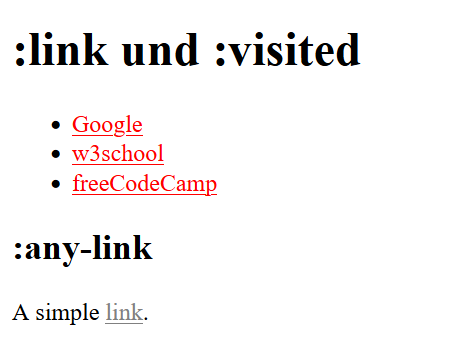
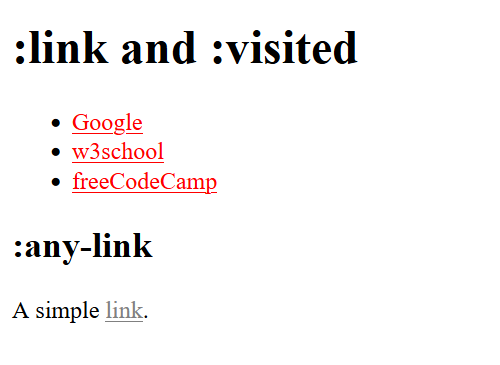
UD 2.1.

diff --git a/2_CSS_Selectors/Part_11/index.html b/2_CSS_Selectors/Part_11/index.html
@@ -1,0 +1,39 @@
+<!DOCTYPE html>
+<html>
+
+<head>
+    <title>Pseudo-classes</title>
+    <meta charset="UTF-8" />
+    <link rel="stylesheet" href="styles/style.css" />
+</head>
+
+<body>
+    <h1>:first-child in body</h1>
+    <p>
+        Lorem ipsum dolor sit amet, consectetuer adipiscing elit. Aenean commodo ligula eget dolor.
+    </p>
+    <h2>:first-child and :last-child on table</h2>
+    <table>
+        <tbody>
+            <tr>
+                <td>:first-child in tr</td>
+                <td>Text only</td>
+                <td>:last-child in tr</td>
+            </tr>
+            <tr>
+                <td>:first-child in tr</td>
+                <td>Text only</td>
+                <td>:last-child in tr</td>
+            </tr>
+        </tbody>
+    </table>
+    <ul>
+        <li>This is selected by :first-child in ul.</li>
+        <li>This is not selected.</li>
+        <li>This is not selected.</li>
+        <li>This is selected by :last-child in ul.</li>
+    </ul>
+    <p>This one is selected by :last-child of body.</p>
+</body>
+
+</html>

diff --git a/2_CSS_Selectors/Part_10/index.html b/2_CSS_Selectors/Part_10/index.html
@@ -1,0 +1,35 @@
+<!DOCTYPE html>
+<html>
+
+<head>
+    <title>Pseudo-classes</title>
+    <meta charset="UTF-8" />
+    <link rel="stylesheet" href="styles/style.css" />
+</head>
+
+<body>
+    <h1>:root and :empty</h1>
+    <p>
+        Lorem ipsum dolor sit amet, consectetuer adipiscing elit. Aenean commodo ligula eget dolor.
+    </p>
+    <p></p>
+    <h2>:empty on table</h2>
+    <table>
+        <tbody>
+            <tr>
+                <td>Value</td>
+                <td></td>
+            </tr>
+            <tr>
+                <td></td>
+                <td>Value</td>
+            </tr>
+            <tr>
+                <td></td>
+                <td></td>
+            </tr>
+        </tbody>
+    </table>
+</body>
+
+</html>

diff --git a/2_CSS_Selectors/Part_7/index.html b/2_CSS_Selectors/Part_7/index.html
@@ -8,7 +8,7 @@
 </head>
 
 <body>
-    <h1>:link und :visited</h1>
+    <h1>:link and :visited</h1>
     <ul>
         <li><a href="https://www.google.com/">Google</a></li>
         <li><a href="https://www.w3schools.com/">w3school</a></li>

diff --git a/2_CSS_Selectors/Part_8/index.html b/2_CSS_Selectors/Part_8/index.html
@@ -8,7 +8,7 @@
 </head>
 
 <body>
-    <h1>:hover und :focus</h1>
+    <h1>:hover and :focus</h1>
     <ul>
         <li><a href="https://www.google.com/">Google</a></li>
         <li><a href="https://www.w3schools.com/">w3school</a></li>

diff --git a/2_CSS_Selectors/Part_7/styles/style.css b/2_CSS_Selectors/Part_7/styles/style.css
@@ -1,12 +1,15 @@
 a:link { 
    color: red; 
 }
+
 a:visited { 
    color: green; 
 }
+
 .articlestyle a:any-link { 
    color: grey; 
 }
+
 /* Chrome and Opera */
 .articlestyle a:-webkit-any-link { 
    color: grey; 

diff --git a/2_CSS_Selectors/Part_11/styles/style.css b/2_CSS_Selectors/Part_11/styles/style.css
@@ -1,0 +1,15 @@
+* { 
+    background-color: white; 
+}
+
+body { 
+    padding: 5px; 
+}
+
+:first-child { 
+    border: 2px solid black;  
+}
+
+:last-child { 
+    border: 2px dotted gray; 
+}

diff --git a/2_CSS_Selectors/Part_10/styles/style.css b/2_CSS_Selectors/Part_10/styles/style.css
@@ -1,0 +1,11 @@
+:root { 
+    color: lightgrey; 
+}
+
+:empty { 
+    background-color: yellow; padding: 10px; 
+}
+
+td:empty { 
+    background-color: green; 
+}

diff --git a/README.md b/README.md
@@ -773,7 +773,7 @@ CSS pseudo-classes are selectors for specific properties.
  example --> *2_CSS_Selectors/Part_7/index.html*
    ```
     <body>
-        <h1>:link und :visited</h1>
+        <h1>:link and :visited</h1>
         <ul>
             <li><a href="https://www.google.com/">Google</a></li>
             <li><a href="https://www.w3schools.com/">w3school</a></li>
@@ -804,6 +804,7 @@ CSS pseudo-classes are selectors for specific properties.
    ```
 
  ![Preview](2_CSS_Selectors/Images/Preview_2_7.PNG)
+ ![Preview](2_CSS_Selectors/Images/Preview_2_7_B.PNG)
 
 
 - Pseudo classes for user interactions with mouse and keyboard
@@ -811,7 +812,7 @@ CSS pseudo-classes are selectors for specific properties.
  example --> *2_CSS_Selectors/Part_8/index.html*
    ```
     <body>
-        <h1>:hover und :focus</h1>
+        <h1>:hover and :focus</h1>
         <ul>
             <li><a href="https://www.google.com/">Google</a></li>
             <li><a href="https://www.w3schools.com/">w3school</a></li>
@@ -860,6 +861,8 @@ CSS pseudo-classes are selectors for specific properties.
    ```
 
  ![Preview](2_CSS_Selectors/Images/Preview_2_8.PNG)
+ ![Preview](2_CSS_Selectors/Images/Preview_2_8_B.PNG)
+ ![Preview](2_CSS_Selectors/Images/Preview_2_8_C.PNG)
 
 
 - Pseudo class for reference targets
@@ -903,7 +906,115 @@ CSS pseudo-classes are selectors for specific properties.
    ```
 
  ![Preview](2_CSS_Selectors/Images/Preview_2_9.PNG)
+ ![Preview](2_CSS_Selectors/Images/Preview_2_9_B.PNG)
+ ![Preview](2_CSS_Selectors/Images/Preview_2_9_C.PNG)
+ ![Preview](2_CSS_Selectors/Images/Preview_2_9_D.PNG)
+ ![Preview](2_CSS_Selectors/Images/Preview_2_9_E.PNG)
 
 
+### CSS structure pseudo-classes
+Structure pseudo-classes can be used to select elements based on their position in the document structure.
 
+- CSS structure pseudo-classes with `:root` and `:empty`
+
+ example --> *2_CSS_Selectors/Part_10/index.html*
+   ```
+    <body>
+        <h1>:root and :empty</h1>
+        <p>
+            Lorem ipsum dolor sit amet, consectetuer adipiscing elit. Aenean commodo ligula eget dolor.
+        </p>
+        <p></p>
+        <h2>:empty on table</h2>
+        <table>
+            <tbody>
+                <tr>
+                    <td>Value</td>
+                    <td></td>
+                </tr>
+                <tr>
+                    <td></td>
+                    <td>Value</td>
+                </tr>
+                <tr>
+                    <td></td>
+                    <td></td>
+                </tr>
+            </tbody>
+        </table>
+    </body>
+   ```
+
+ example --> *2_CSS_Selectors/Part_10/styles/style.css*
+   ```
+    :root { 
+        color: lightgrey; 
+    }
+
+    :empty { 
+        background-color: yellow; padding: 10px; 
+    }
+
+    td:empty { 
+        background-color: green; 
+    }
+   ```
+
+ ![Preview](2_CSS_Selectors/Images/Preview_2_10.PNG)
+
+
+- Structure pseudo-classes for child elements
+
+ example --> *2_CSS_Selectors/Part_11/index.html*
+   ```
+    <body>
+        <h1>:first-child in body</h1>
+        <p>
+            Lorem ipsum dolor sit amet, consectetuer adipiscing elit. Aenean commodo ligula eget dolor.
+        </p>
+        <h2>:first-child and :last-child on table</h2>
+        <table>
+            <tbody>
+                <tr>
+                    <td>:first-child in tr</td>
+                    <td>Text only</td>
+                    <td>:last-child in tr</td>
+                </tr>
+                <tr>
+                    <td>:first-child in tr</td>
+                    <td>Text only</td>
+                    <td>:last-child in tr</td>
+                </tr>
+            </tbody>
+        </table>
+        <ul>
+            <li>This is selected by :first-child in ul.</li>
+            <li>This is not selected.</li>
+            <li>This is not selected.</li>
+            <li>This is selected by :last-child in ul.</li>
+        </ul>
+        <p>This one is selected by :last-child of body.</p>
+    </body>
+   ```
+
+ example --> *2_CSS_Selectors/Part_11/styles/style.css*
+   ```
+    * { 
+        background-color: white; 
+    }
+
+    body { 
+        padding: 5px; 
+    }
+
+    :first-child { 
+        border: 2px solid black;  
+    }
+
+    :last-child { 
+        border: 2px dotted gray; 
+    }
+   ```
+
+ ![Preview](2_CSS_Selectors/Images/Preview_2_11.png)
 
